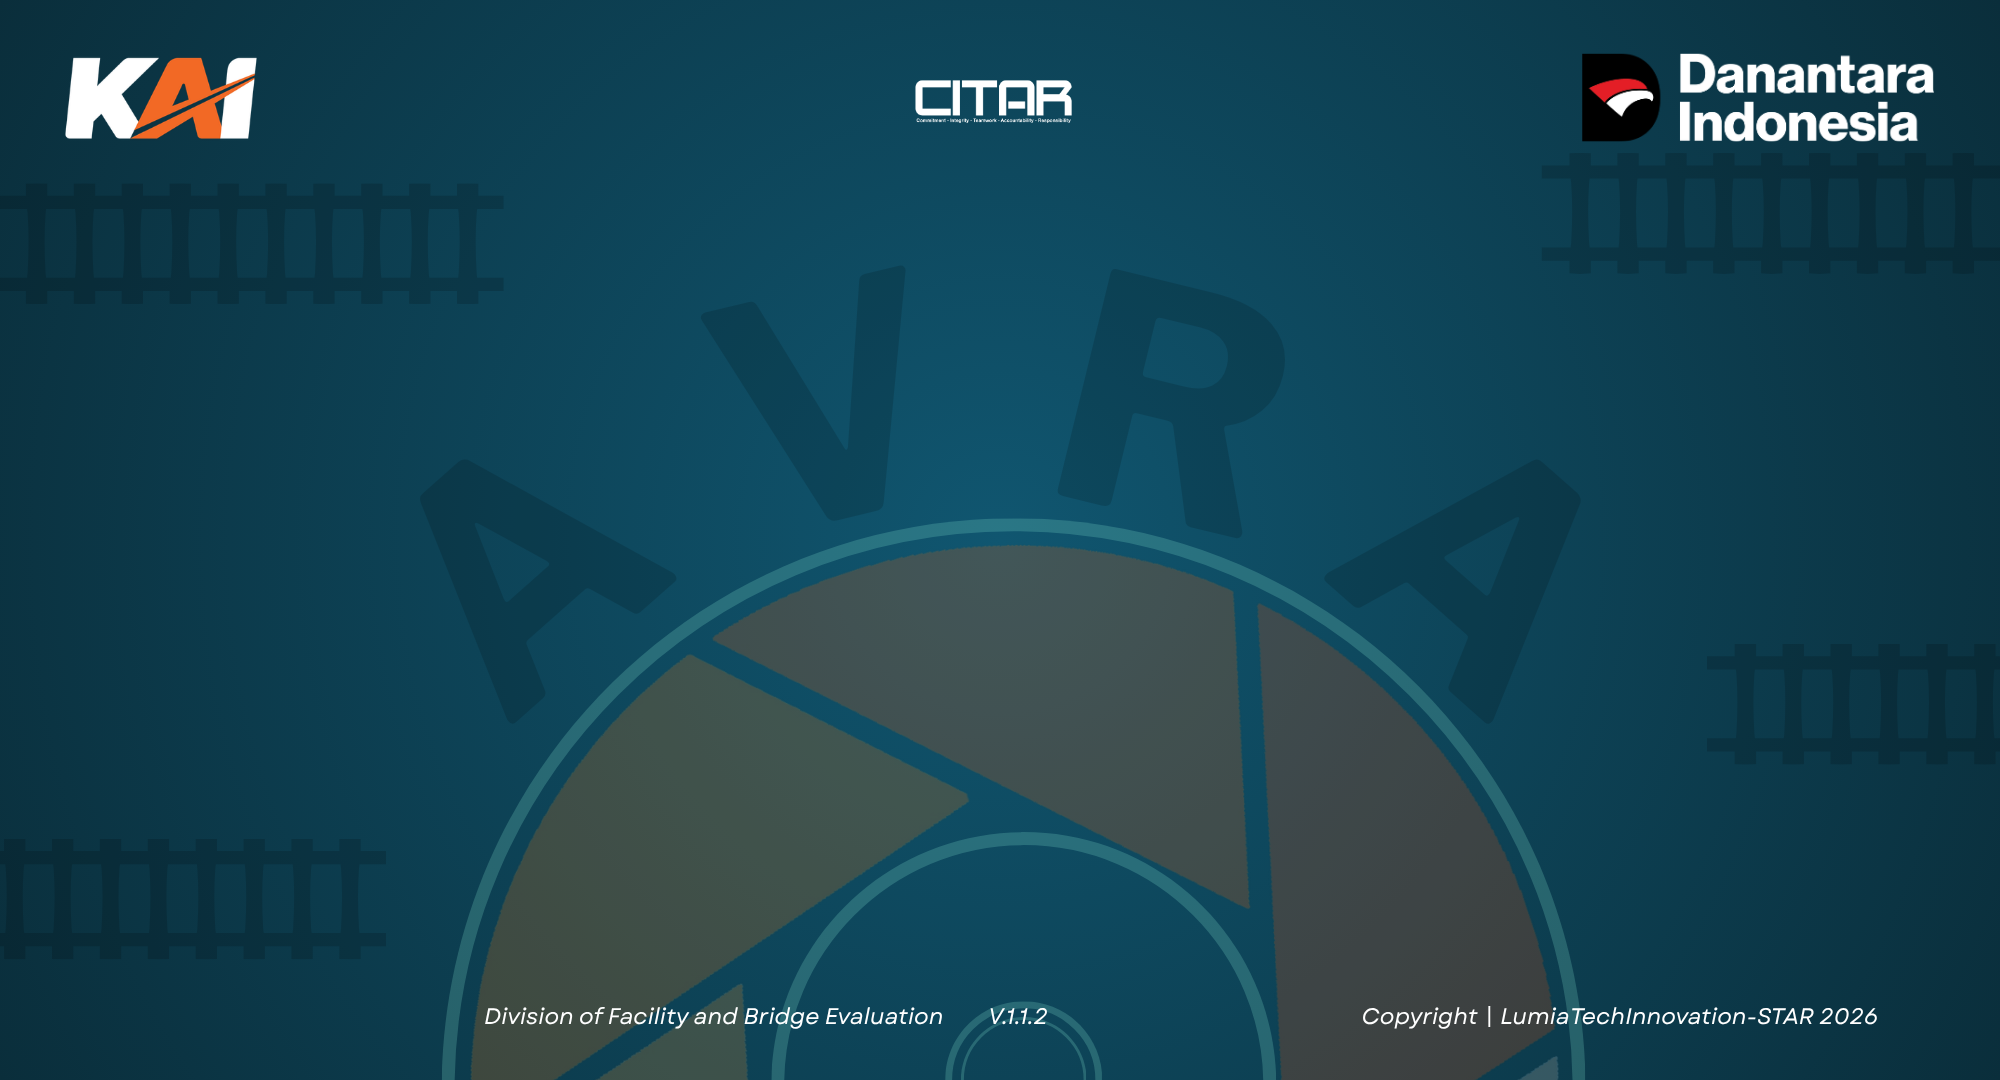
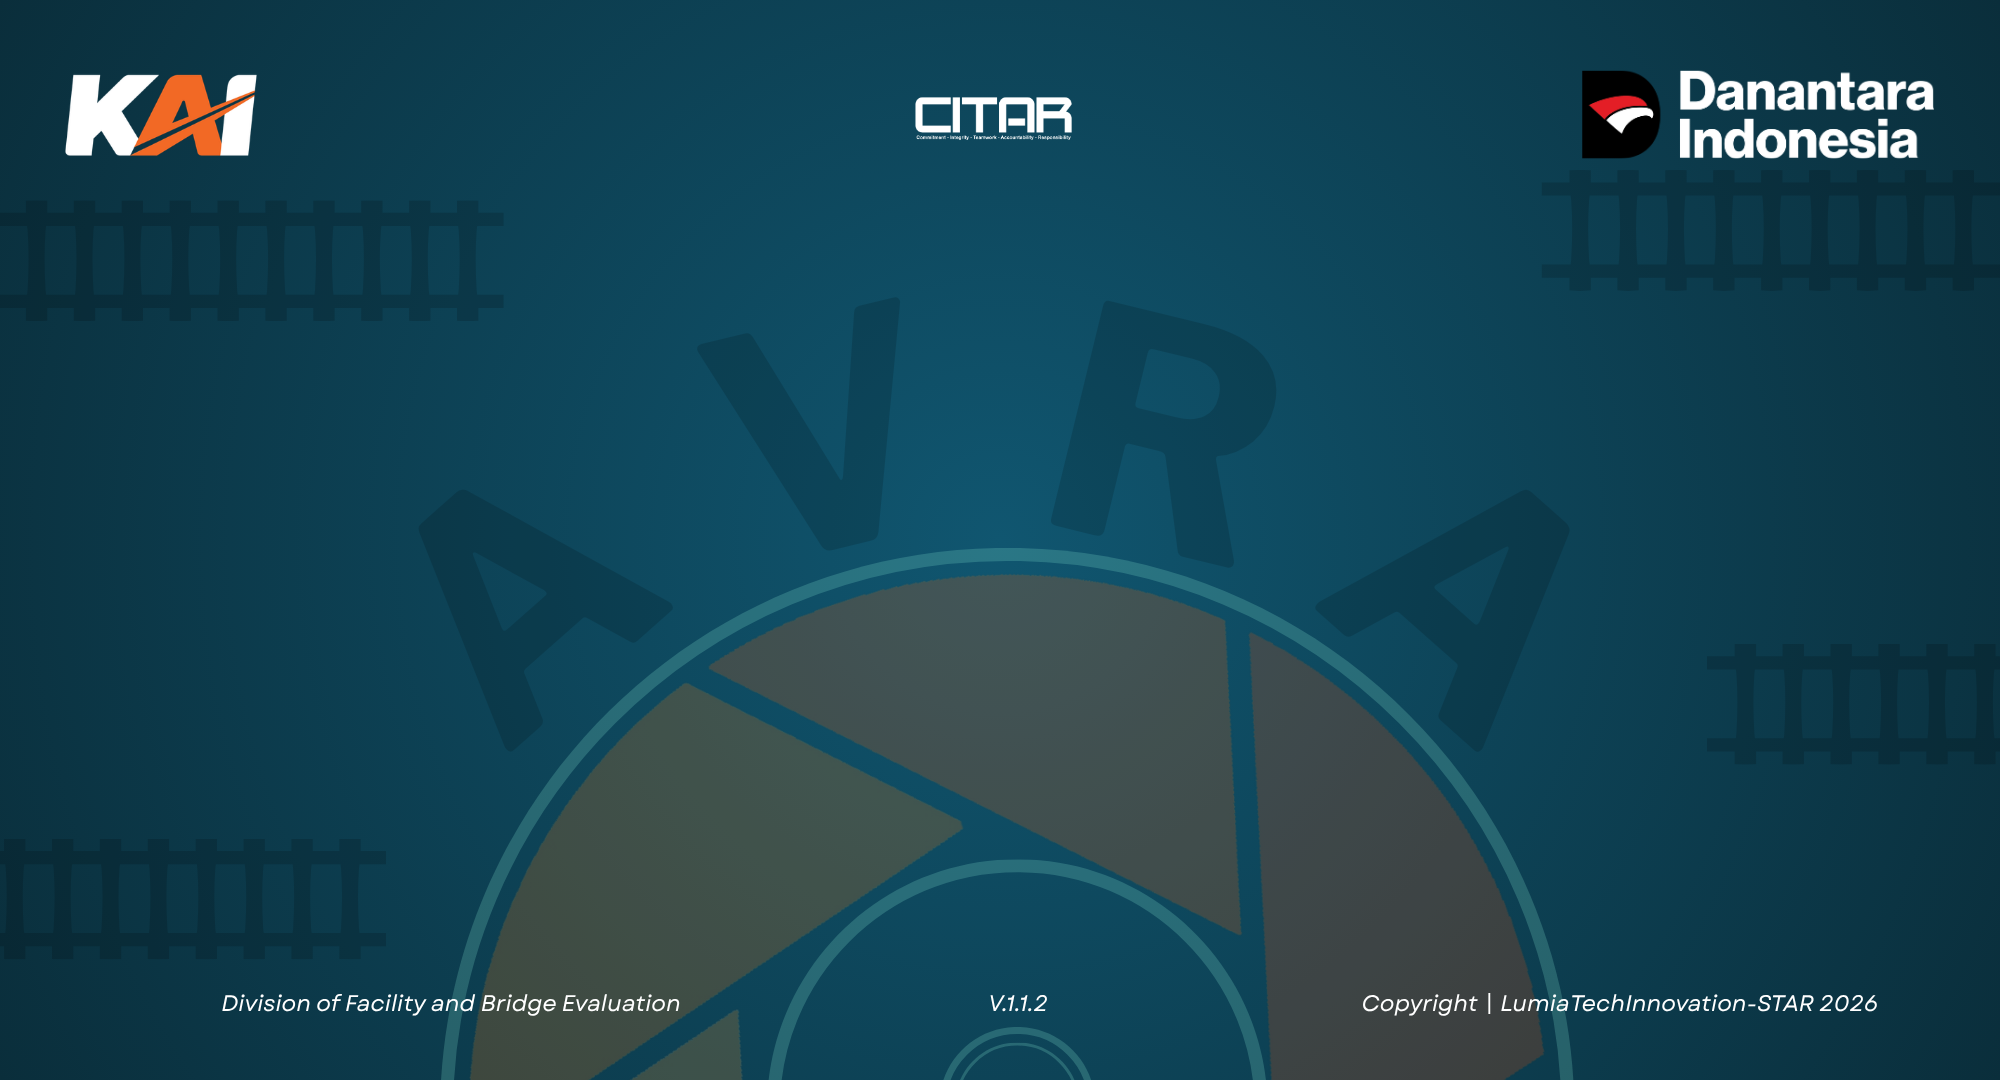
fitur download v1

diff --git a/index.html b/index.html
@@ -33,7 +33,7 @@
 <body class="bg-gray-200 h-[100dvh] w-full overflow-hidden flex flex-col font-sans text-sm">
   <div id="toast-container" class="fixed top-4 left-1/2 -translate-x-1/2 z-[9999] flex flex-col gap-2 pointer-events-none"></div>
     <main class="flex-1 overflow-auto relative">
-        <section id="page-home" class="page-section absolute inset-0 bg-[#0B3342] bg-[url('./icon_100_/bg.png')] bg-contain bg-center bg-no-repeat text-white flex flex-col">
+        <section id="page-home" class="page-section absolute inset-0 bg-[#0B3342] bg-[url('./icon_100_/bg1.png')] bg-cover bg-center bg-no-repeat text-white flex flex-col">
             <div class="flex-1 flex flex-col items-center justify-center gap-12">
                 <div class="flex gap-24 text-center">
                     <div class="flex flex-col items-center cursor-pointer hover:scale-105 transition" onclick="goTo('rail')">

diff --git a/webRaw.py b/webRaw.py
@@ -1062,9 +1062,9 @@ class GPSReaderProcess(Process):
         self.sim_max_km = sim_max_km
 
         # Konfigurasi Toleransi Map Matching
-        self.MAX_DRIFT_METERS = 15.0
+        self.MAX_DRIFT_METERS = 100.0
         self.MAX_JUMP_METERS = 200.0
-        self.DEG_TO_METERS = 111320.0
+        self.DEG_TO_METERS = 999999.0
 
     def _get_distance_to_segment(self, px, py, x1, y1, x2, y2):
         """Menghitung jarak tegak lurus dari titik GPS ke ruas rel."""
@@ -1122,60 +1122,46 @@ class GPSReaderProcess(Process):
     # DATA SOURCE 2: SIMULATOR GENERATOR
     # ==========================================
     def _simulator_stream(self, df):
-        target_route = df["route"].iloc[0]
-        track = df[df["route"] == target_route].copy()
-        log.info(f"Mulai Simulasi di rute {target_route}")
+        # Pastikan file gps-150.json berada di root direktori yang sama dengan webRaw.py
+        json_file = "./data-gps/gps-150.json"
 
-        speed_mps = self.sim_speed_kmh * (1000 / 3600)
-        waypoints = []
-
-        for _, row in track.iterrows():
-            waypoints.append((row["x1"], row["y1"]))
-            try:
-                end_km_str = row["range"].split("/")[1].replace("+", "")
-                if int(end_km_str) >= self.sim_max_km * 1000:
-                    waypoints.append((row["x2"], row["y2"]))
-                    break
-            except:
-                pass
-
-        if not waypoints:
-            yield {"type": "error", "msg": "Data simulasi kosong."}
+        if not os.path.exists(json_file):
+            log.error(f"File {json_file} tidak ditemukan di direktori kerja!")
+            yield {"type": "error", "msg": f"File {json_file} tidak ditemukan."}
             return
 
-        for i in range(len(waypoints) - 1):
-            start_lon, start_lat = waypoints[i]
-            end_lon, end_lat = waypoints[i + 1]
+        try:
+            with open(json_file, "r") as f:
+                gps_data = json.load(f)
+        except Exception as e:
+            log.error(f"Gagal membaca JSON {json_file}: {e}")
+            yield {"type": "error", "msg": "Gagal membaca file JSON simulasi."}
+            return
 
-            dist_deg = math.hypot(end_lon - start_lon, end_lat - start_lat)
-            dist_m = dist_deg * self.DEG_TO_METERS
-            if dist_m == 0:
-                continue
+        log.info(
+            f"Mulai Simulasi Replay GPS dari {json_file}. Total: {len(gps_data)} titik."
+        )
 
-            travel_time = dist_m / speed_mps
-            steps = max(1, int(travel_time))
+        for item in gps_data:
+            lat = item.get("latitude")
+            lon = item.get("longitude")
 
-            lon_step = (end_lon - start_lon) / steps
-            lat_step = (end_lat - start_lat) / steps
+            # Abaikan data jika korup
+            if lat is not None and lon is not None:
+                yield {"type": "valid", "lat": float(lat), "lon": float(lon)}
+            else:
+                log.warning(f"Data JSON tidak memiliki lat/lon yang valid: {item}")
 
-            for step in range(steps):
-                ideal_lon = start_lon + (lon_step * step)
-                ideal_lat = start_lat + (lat_step * step)
+            # Delay 5 detik sesuai permintaan Anda.
+            # (UBAH INI JIKA ANDA BOSAN MENUNGGU SAAT DEBUGGING)
+            time.sleep(3)
 
-                # Injeksi Drift
-                drift_angle = random.uniform(0, 2 * math.pi)
-                drift_dist = random.uniform(0, self.sim_noise_meters)
-                drift_deg = drift_dist / self.DEG_TO_METERS
+        log.info("Simulasi Replay GPS selesai (Mencapai titik terakhir).")
+        yield {"type": "error", "msg": "Simulasi JSON selesai mencapai akhir data."}
 
-                noisy_lon = ideal_lon + (math.cos(drift_angle) * drift_deg)
-                noisy_lat = ideal_lat + (math.sin(drift_angle) * drift_deg)
-
-                yield {"type": "valid", "lat": noisy_lat, "lon": noisy_lon}
-                time.sleep(1)  # Delay 1 detik per koordinat
-
-        yield {"type": "error", "msg": "Simulasi selesai mencapai batas Max KM."}
+        # Tahan proses agar tidak crash atau keluar dari loop utama
         while True:
-            time.sleep(10)  # Tahan proses agar tidak crash setelah simulasi selesai
+            time.sleep(10)
 
     # ==========================================
     # FUNGSI UTAMA (MAP MATCHING LOGIC)
@@ -1221,21 +1207,43 @@ class GPSReaderProcess(Process):
                     pass
                 continue
 
-            # Jika koordinat valid, lakukan Map Matching
+            locked_route = None
+            locked_track = None
+
+            # ... (Di dalam loop gps_source) ...
             lat, lon = data["lat"], data["lon"]
 
-            _, indices = kdtree.query([lon, lat], k=3)
+            # UBAH k=3 menjadi k=15 agar tidak melewatkan track tetangga
+            _, indices = kdtree.query([lon, lat], k=15)
+
             best_match = None
             min_dist = float("inf")
 
-            for idx in indices:
-                row = df.iloc[idx]
-                dist_m = self._get_distance_to_segment(
-                    lon, lat, row["x1"], row["y1"], row["x2"], row["y2"]
-                )
-                if dist_m < min_dist:
-                    min_dist = dist_m
-                    best_match = row
+            # 1. PRIORITAS UTAMA: Cari ruas di jalur yang sedang terkunci (Sticky Route)
+            if locked_route is not None and locked_track is not None:
+                for idx in indices:
+                    row = df.iloc[idx]
+                    if row["route"] == locked_route and row["track"] == locked_track:
+                        dist_m = self._get_distance_to_segment(
+                            lon, lat, row["x1"], row["y1"], row["x2"], row["y2"]
+                        )
+                        if dist_m < min_dist:
+                            min_dist = dist_m
+                            best_match = row
+
+            # 2. PENCARIAN GLOBAL: Jika tidak ada di jalur terkunci, atau terlalu jauh (>15m)
+            # Ini akan dieksekusi saat pertama kali nyala, atau jika kereta pindah jalur (wesel)
+            if min_dist > self.MAX_DRIFT_METERS:
+                min_dist = float("inf")
+                best_match = None
+                for idx in indices:
+                    row = df.iloc[idx]
+                    dist_m = self._get_distance_to_segment(
+                        lon, lat, row["x1"], row["y1"], row["x2"], row["y2"]
+                    )
+                    if dist_m < min_dist:
+                        min_dist = dist_m
+                        best_match = row
 
             is_valid = False
             status_msg = "off_track"
@@ -1243,7 +1251,7 @@ class GPSReaderProcess(Process):
 
             # Validasi Buffer Zone
             if min_dist <= self.MAX_DRIFT_METERS:
-                # Validasi Temporal Check
+                # Matikan MAX_JUMP_METERS sementara saat simulasi dengan mengubah nilainya jadi sangat besar
                 if last_valid_point is not None:
                     time_diff = current_time - last_valid_time
                     jump_dist = (
@@ -1252,7 +1260,10 @@ class GPSReaderProcess(Process):
                         )
                         * self.DEG_TO_METERS
                     )
-                    if jump_dist / max(time_diff, 0.1) > self.MAX_JUMP_METERS:
+
+                    if (
+                        jump_dist / max(time_diff, 0.1) > 999999.0
+                    ):  # Abaikan loncatan kecepatan untuk simulasi
                         status_msg = "anomalous_jump"
                     else:
                         is_valid = True
@@ -1264,6 +1275,15 @@ class GPSReaderProcess(Process):
                 km_data = best_match["range"]
                 last_valid_point = (lon, lat)
                 last_valid_time = current_time
+
+                # KUNCI JALUR UNTUK ITERASI BERIKUTNYA
+                locked_route = best_match["route"]
+                locked_track = best_match["track"]
+
+            else:
+                # Lepas kunci jika terdeteksi off-track agar bisa mencari rute baru
+                locked_route = None
+                locked_track = None
 
             # Distribusikan Hasil
             payload = {
@@ -1289,10 +1309,10 @@ class GPSReaderProcess(Process):
             self.internal_gps_queue.put_nowait(payload)
 
             # Print opsional untuk memonitor di terminal saat testing
-            # if self.simulation_mode:
-            #     print(
-            #         f"[SIM] Error: {min_dist:.2f}m | Status: {status_msg} | KM: {km_data}"
-            #     )
+            if self.simulation_mode:
+                print(
+                    f"[SIM] Error: {min_dist:.2f}m | Status: {status_msg} | KM: {km_data}"
+                )
 
 
 # ============================================================================